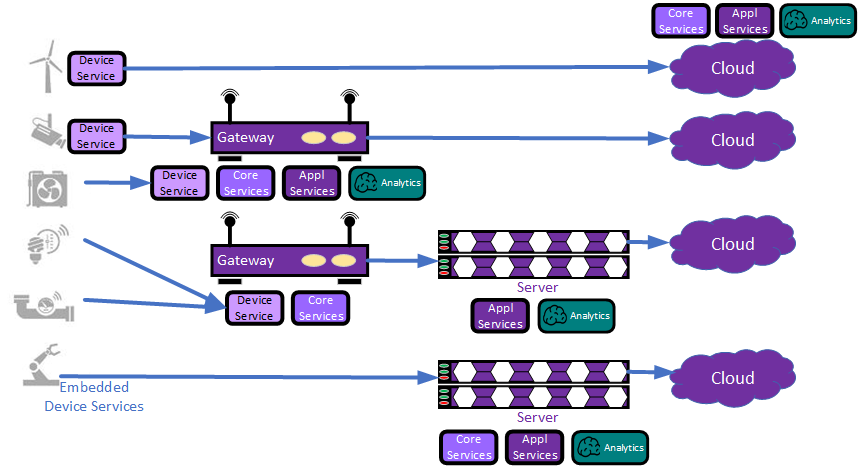
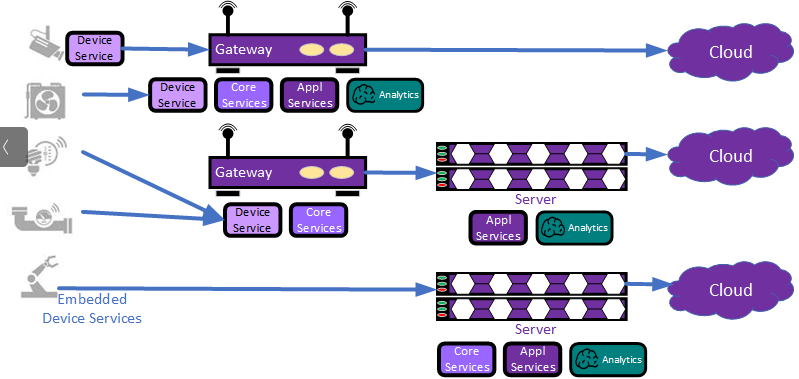
fix: Updated diagram for deployments section (#1082)
close #1031

diff --git a/docs_src/index.md b/docs_src/index.md
@@ -66,7 +66,7 @@ overall architecture:
 ## Deployments
 EdgeX was originally built by Dell to run on its IoT [gateways](./general/Definitions.md#Gateway). While EdgeX can and does run on gateways, its platform agnostic nature and micro service architecture enables tiered distributed deployments.  In other words, a single instance of EdgeX’s micro services can be distributed across several host platforms.  The host platform for one or many EdgeX micro services is called a node.  This allows EdgeX to leverage compute, storage, and network resources wherever they live on the edge.
 
-Its loosely-coupled architecture enables distribution across nodes to enable tiered edge computing.  For example, thing communicating services could run on a programmable logic controller (PLC), a gateway, or be embedded in smarter sensors while other EdgeX services are deployed on networked servers or even in the cloud.   The scope of a deployment could therefore include embedded sensors, controllers, edge gateways, servers and cloud systems.
+Its loosely-coupled architecture enables distribution across nodes to enable tiered edge computing.  For example, thing communicating services could run on a programmable logic controller (PLC), a gateway, or be embedded in smarter sensors while other EdgeX services are deployed on networked servers. The scope of a deployment could therefore include embedded sensors, controllers, edge gateways, servers and cloud systems.
 
 ![image](./general/EdgeX_deployments.png)
 EdgeX micro services can be deployed across an array of compute nodes to maximize resources while at the same time position more processing intelligence closer to the physical edge.  The number and the function of particular micro services deployed on a given node depends on the use case and capability of the hardware and infrastructure.
